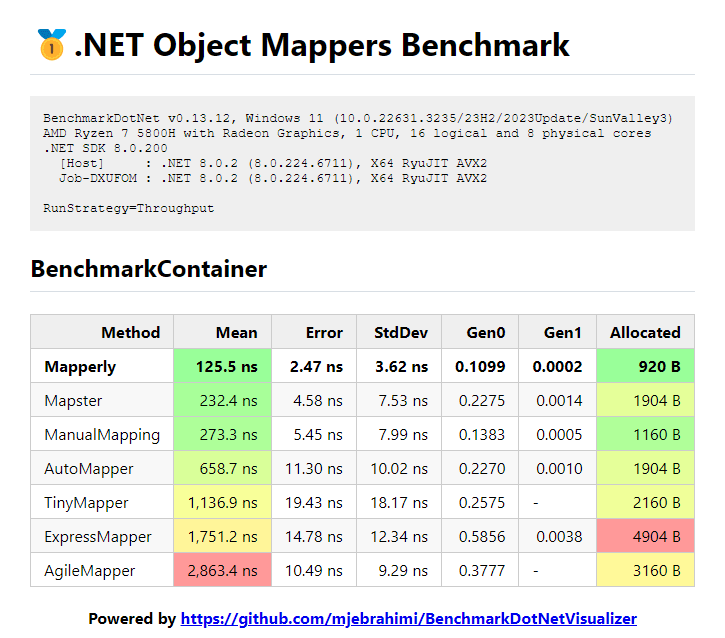
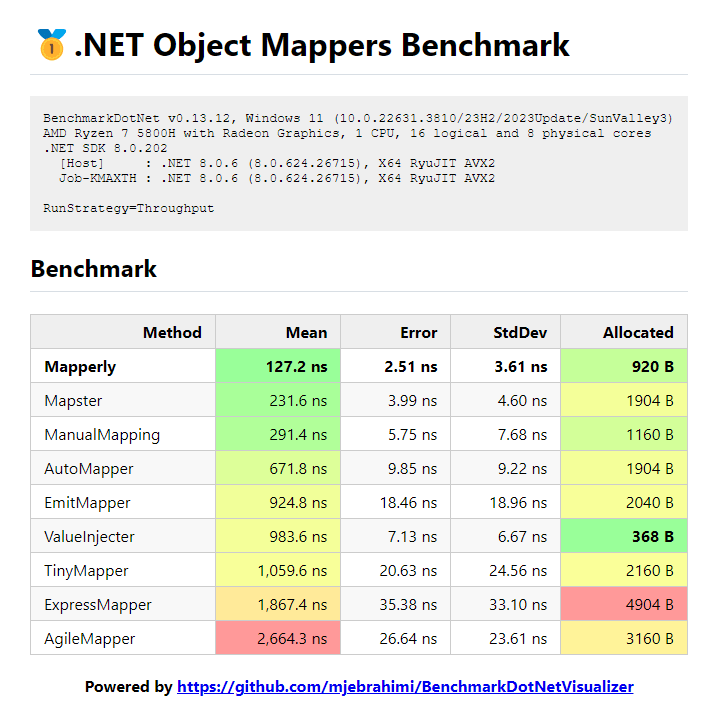
Update benchmark - Update dependencies, Add EmitMapper.Core and ValueInjecter

Changed region(s): [[0.0306, 0.1489, 0.9805, 1.0], [0.0306, 0.0298, 0.9499, 0.1191], [0.5515, 0.4467, 0.6128, 0.4765]]

diff --git a/ObjectsMapperBenchmark/ManuallyMapper.cs b/ObjectsMapperBenchmark/ManuallyMapper.cs
@@ -1,95 +1,95 @@
 using System.Linq;
 
-namespace ObjectsMapperBenchmark
+namespace ObjectsMapperBenchmark;
+
+public static class ManuallyMapper
 {
-    public static class ManuallyMapper
+    public static SpotifyAlbum Map(this SpotifyAlbumDto spotifyAlbumDto)
     {
-        public static SpotifyAlbum Map(this SpotifyAlbumDto spotifyAlbumDto)
+        //Generated by MappingGenerator
+        return new SpotifyAlbum()
         {
-            return new SpotifyAlbum()
+            AlbumType = spotifyAlbumDto.AlbumType,
+            Artists = spotifyAlbumDto.Artists.Select(spotifyAlbumDtoArtist => new Artist()
             {
-                AlbumType = spotifyAlbumDto.AlbumType,
-                Artists = spotifyAlbumDto.Artists.Select(spotifyAlbumDtoArtist => new Artist()
-                {
-                    ExternalUrls = new ExternalUrls()
-                    {
-                        Spotify = spotifyAlbumDtoArtist.ExternalUrls.Spotify
-                    },
-                    Href = spotifyAlbumDtoArtist.Href,
-                    Id = spotifyAlbumDtoArtist.Id,
-                    Name = spotifyAlbumDtoArtist.Name,
-                    Type = spotifyAlbumDtoArtist.Type,
-                    Uri = spotifyAlbumDtoArtist.Uri
-                }).ToArray(),
-                AvailableMarkets = spotifyAlbumDto.AvailableMarkets,
-                Copyrights = spotifyAlbumDto.Copyrights.Select(spotifyAlbumDtoCopyright => new Copyright()
-                {
-                    Text = spotifyAlbumDtoCopyright.Text,
-                    Type = spotifyAlbumDtoCopyright.Type
-                }).ToArray(),
-                ExternalIds = new ExternalIds()
-                {
-                    Upc = spotifyAlbumDto.ExternalIds.Upc
-                },
                 ExternalUrls = new ExternalUrls()
                 {
-                    Spotify = spotifyAlbumDto.ExternalUrls.Spotify
+                    Spotify = spotifyAlbumDtoArtist.ExternalUrls.Spotify
                 },
-                Genres = spotifyAlbumDto.Genres,
-                Href = spotifyAlbumDto.Href,
-                Id = spotifyAlbumDto.Id,
-                Images = spotifyAlbumDto.Images.Select(spotifyAlbumDtoImage => new Image()
+                Href = spotifyAlbumDtoArtist.Href,
+                Id = spotifyAlbumDtoArtist.Id,
+                Name = spotifyAlbumDtoArtist.Name,
+                Type = spotifyAlbumDtoArtist.Type,
+                Uri = spotifyAlbumDtoArtist.Uri
+            }).ToArray(),
+            AvailableMarkets = spotifyAlbumDto.AvailableMarkets,
+            Copyrights = spotifyAlbumDto.Copyrights.Select(spotifyAlbumDtoCopyright => new Copyright()
+            {
+                Text = spotifyAlbumDtoCopyright.Text,
+                Type = spotifyAlbumDtoCopyright.Type
+            }).ToArray(),
+            ExternalIds = new ExternalIds()
+            {
+                Upc = spotifyAlbumDto.ExternalIds.Upc
+            },
+            ExternalUrls = new ExternalUrls()
+            {
+                Spotify = spotifyAlbumDto.ExternalUrls.Spotify
+            },
+            Genres = spotifyAlbumDto.Genres,
+            Href = spotifyAlbumDto.Href,
+            Id = spotifyAlbumDto.Id,
+            Images = spotifyAlbumDto.Images.Select(spotifyAlbumDtoImage => new Image()
+            {
+                Height = spotifyAlbumDtoImage.Height,
+                Url = spotifyAlbumDtoImage.Url,
+                Width = spotifyAlbumDtoImage.Width
+            }).ToArray(),
+            Name = spotifyAlbumDto.Name,
+            Popularity = spotifyAlbumDto.Popularity,
+            ReleaseDate = spotifyAlbumDto.ReleaseDate,
+            ReleaseDatePrecision = spotifyAlbumDto.ReleaseDatePrecision,
+            Tracks = new Tracks()
+            {
+                Href = spotifyAlbumDto.Tracks.Href,
+                Items = spotifyAlbumDto.Tracks.Items.Select(spotifyAlbumDtoTracksItem => new Item()
                 {
-                    Height = spotifyAlbumDtoImage.Height,
-                    Url = spotifyAlbumDtoImage.Url,
-                    Width = spotifyAlbumDtoImage.Width
-                }).ToArray(),
-                Name = spotifyAlbumDto.Name,
-                Popularity = spotifyAlbumDto.Popularity,
-                ReleaseDate = spotifyAlbumDto.ReleaseDate,
-                ReleaseDatePrecision = spotifyAlbumDto.ReleaseDatePrecision,
-                Tracks = new Tracks()
-                {
-                    Href = spotifyAlbumDto.Tracks.Href,
-                    Items = spotifyAlbumDto.Tracks.Items.Select(spotifyAlbumDtoTracksItem => new Item()
+                    Artists = spotifyAlbumDtoTracksItem.Artists.Select(spotifyAlbumDtoTracksItemArtist => new Artist()
                     {
-                        Artists = spotifyAlbumDtoTracksItem.Artists.Select(spotifyAlbumDtoTracksItemArtist => new Artist()
-                        {
-                            ExternalUrls = new ExternalUrls()
-                            {
-                                Spotify = spotifyAlbumDtoTracksItemArtist.ExternalUrls.Spotify
-                            },
-                            Href = spotifyAlbumDtoTracksItemArtist.Href,
-                            Id = spotifyAlbumDtoTracksItemArtist.Id,
-                            Name = spotifyAlbumDtoTracksItemArtist.Name,
-                            Type = spotifyAlbumDtoTracksItemArtist.Type,
-                            Uri = spotifyAlbumDtoTracksItemArtist.Uri
-                        }).ToArray(),
-                        AvailableMarkets = spotifyAlbumDtoTracksItem.AvailableMarkets,
-                        DiscNumber = spotifyAlbumDtoTracksItem.DiscNumber,
-                        DurationMs = spotifyAlbumDtoTracksItem.DurationMs,
-                        Explicit = spotifyAlbumDtoTracksItem.Explicit,
                         ExternalUrls = new ExternalUrls()
                         {
-                            Spotify = spotifyAlbumDtoTracksItem.ExternalUrls.Spotify
+                            Spotify = spotifyAlbumDtoTracksItemArtist.ExternalUrls.Spotify
                         },
-                        Href = spotifyAlbumDtoTracksItem.Href,
-                        Id = spotifyAlbumDtoTracksItem.Id,
-                        Name = spotifyAlbumDtoTracksItem.Name,
-                        PreviewUrl = spotifyAlbumDtoTracksItem.PreviewUrl,
-                        TrackNumber = spotifyAlbumDtoTracksItem.TrackNumber,
-                        Type = spotifyAlbumDtoTracksItem.Type,
-                        Uri = spotifyAlbumDtoTracksItem.Uri
+                        Href = spotifyAlbumDtoTracksItemArtist.Href,
+                        Id = spotifyAlbumDtoTracksItemArtist.Id,
+                        Name = spotifyAlbumDtoTracksItemArtist.Name,
+                        Type = spotifyAlbumDtoTracksItemArtist.Type,
+                        Uri = spotifyAlbumDtoTracksItemArtist.Uri
                     }).ToArray(),
-                    Limit = spotifyAlbumDto.Tracks.Limit,
-                    Next = spotifyAlbumDto.Tracks.Next,
-                    Offset = spotifyAlbumDto.Tracks.Offset,
-                    Previous = spotifyAlbumDto.Tracks.Previous,
-                    Total = spotifyAlbumDto.Tracks.Total
-                },
-                Type = spotifyAlbumDto.Type,
-                Uri = spotifyAlbumDto.Uri
-            };
-        }
+                    AvailableMarkets = spotifyAlbumDtoTracksItem.AvailableMarkets,
+                    DiscNumber = spotifyAlbumDtoTracksItem.DiscNumber,
+                    DurationMs = spotifyAlbumDtoTracksItem.DurationMs,
+                    Explicit = spotifyAlbumDtoTracksItem.Explicit,
+                    ExternalUrls = new ExternalUrls()
+                    {
+                        Spotify = spotifyAlbumDtoTracksItem.ExternalUrls.Spotify
+                    },
+                    Href = spotifyAlbumDtoTracksItem.Href,
+                    Id = spotifyAlbumDtoTracksItem.Id,
+                    Name = spotifyAlbumDtoTracksItem.Name,
+                    PreviewUrl = spotifyAlbumDtoTracksItem.PreviewUrl,
+                    TrackNumber = spotifyAlbumDtoTracksItem.TrackNumber,
+                    Type = spotifyAlbumDtoTracksItem.Type,
+                    Uri = spotifyAlbumDtoTracksItem.Uri
+                }).ToArray(),
+                Limit = spotifyAlbumDto.Tracks.Limit,
+                Next = spotifyAlbumDto.Tracks.Next,
+                Offset = spotifyAlbumDto.Tracks.Offset,
+                Previous = spotifyAlbumDto.Tracks.Previous,
+                Total = spotifyAlbumDto.Tracks.Total
+            },
+            Type = spotifyAlbumDto.Type,
+            Uri = spotifyAlbumDto.Uri
+        };
     }
 }

diff --git a/ObjectsMapperBenchmark/Benchmark.cs b/ObjectsMapperBenchmark/Benchmark.cs
@@ -1,6 +1,7 @@
 using AutoMapper;
 using BenchmarkDotNet.Attributes;
 using BenchmarkDotNet.Order;
+using EmitMapper;
 using Mapster;
 using System.IO;
 
@@ -9,14 +10,13 @@ namespace ObjectsMapperBenchmark;
 #if RELEASE
 [SimpleJob(BenchmarkDotNet.Engines.RunStrategy.Throughput)]
 #endif
-[MemoryDiagnoser]
-[KeepBenchmarkFiles(false)]
+[MemoryDiagnoser(displayGenColumns: false)]
 [Orderer(SummaryOrderPolicy.FastestToSlowest, MethodOrderPolicy.Declared)]
-public class BenchmarkContainer
+public class Benchmark
 {
     private SpotifyAlbumDto _spotifyAlbumDto;
     private IMapper _autoMapper;
-    private MapperlyMapper _mapperlyMapper;
+    private ObjectsMapper<SpotifyAlbumDto, SpotifyAlbum> _emitMapper;
 
     [GlobalSetup]
     public void Setup()
@@ -24,7 +24,7 @@ public class BenchmarkContainer
         var json = File.ReadAllText("spotifyAlbum.json");
         _spotifyAlbumDto = SpotifyAlbumDto.FromJson(json);
 
-        //Automapper Configuration
+        #region AutoMapper Configuration
         var mapperConfig = new MapperConfiguration(cfg =>
         {
             cfg.CreateMap<SpotifyAlbumDto, SpotifyAlbum>();
@@ -45,8 +45,9 @@ public class BenchmarkContainer
             cfg.CreateMap<Item, ItemDto>();
         });
         _autoMapper = mapperConfig.CreateMapper();
+        #endregion
 
-        //TinyMapper Configuration
+        #region TinyMapper Configuration
         Nelibur.ObjectMapper.TinyMapper.Bind<SpotifyAlbumDto, SpotifyAlbum>();
         Nelibur.ObjectMapper.TinyMapper.Bind<CopyrightDto, Copyright>();
         Nelibur.ObjectMapper.TinyMapper.Bind<ArtistDto, Artist>();
@@ -63,8 +64,9 @@ public class BenchmarkContainer
         Nelibur.ObjectMapper.TinyMapper.Bind<Tracks, TracksDto>();
         Nelibur.ObjectMapper.TinyMapper.Bind<Image, ImageDto>();
         Nelibur.ObjectMapper.TinyMapper.Bind<Item, ItemDto>();
+        #endregion
 
-        //ExpressMapper Configuration
+        #region ExpressMapper Configuration
         global::ExpressMapper.Mapper.Register<SpotifyAlbumDto, SpotifyAlbum>();
         global::ExpressMapper.Mapper.Register<CopyrightDto, Copyright>();
         global::ExpressMapper.Mapper.Register<ArtistDto, Artist>();
@@ -81,54 +83,69 @@ public class BenchmarkContainer
         global::ExpressMapper.Mapper.Register<Tracks, TracksDto>();
         global::ExpressMapper.Mapper.Register<Image, ImageDto>();
         global::ExpressMapper.Mapper.Register<Item, ItemDto>();
+        #endregion
 
-        // Mapperly
-        _mapperlyMapper = new MapperlyMapper();
+        #region EmitMapper
+        _emitMapper = ObjectMapperManager.DefaultInstance.GetMapper<SpotifyAlbumDto, SpotifyAlbum>();
+        #endregion
 
-        //Mapster don't need configuration
-        //AgileMapper don't need configuration
+        //Mapperly does not need configuration
+        //Mapster does not need configuration
+        //AgileMapper does not need configuration
+        //ValueInjecter does not need configuration
     }
 
     [Benchmark]
-    public void AgileMapper()
+    public SpotifyAlbum AutoMapper()
     {
-        AgileObjects.AgileMapper.Mapper.Map(_spotifyAlbumDto).ToANew<SpotifyAlbum>();
+        return _autoMapper.Map<SpotifyAlbum>(_spotifyAlbumDto);
     }
 
     [Benchmark]
-    public void TinyMapper()
+    public SpotifyAlbum Mapster()
     {
-        Nelibur.ObjectMapper.TinyMapper.Map<SpotifyAlbum>(_spotifyAlbumDto);
+        return _spotifyAlbumDto.Adapt<SpotifyAlbum>();
     }
 
     [Benchmark]
-    public void ExpressMapper()
+    public SpotifyAlbum TinyMapper()
     {
-        global::ExpressMapper.Mapper.Map<SpotifyAlbumDto, SpotifyAlbum>(_spotifyAlbumDto);
+        return Nelibur.ObjectMapper.TinyMapper.Map<SpotifyAlbum>(_spotifyAlbumDto);
     }
 
     [Benchmark]
-    public void AutoMapper()
+    public SpotifyAlbum AgileMapper()
     {
-        _autoMapper.Map<SpotifyAlbum>(_spotifyAlbumDto);
+        return AgileObjects.AgileMapper.Mapper.Map(_spotifyAlbumDto).ToANew<SpotifyAlbum>();
     }
 
     [Benchmark]
-    public void ManualMapping()
+    public SpotifyAlbum ExpressMapper()
     {
-        //Generated by MappingGenerator
-        _spotifyAlbumDto.Map();
+        return global::ExpressMapper.Mapper.Map<SpotifyAlbumDto, SpotifyAlbum>(_spotifyAlbumDto);
     }
 
     [Benchmark]
-    public void Mapster()
+    public SpotifyAlbum EmitMapper()
     {
-        _spotifyAlbumDto.Adapt<SpotifyAlbum>();
+        return _emitMapper.Map(_spotifyAlbumDto);
+    }
+
+    [Benchmark]
+    public SpotifyAlbum ValueInjecter()
+    {
+        return Omu.ValueInjecter.Mapper.Map<SpotifyAlbumDto, SpotifyAlbum>(_spotifyAlbumDto);
+    }
+
+    [Benchmark]
+    public SpotifyAlbum ManualMapping()
+    {
+        return _spotifyAlbumDto.Map();
     }
 
     [Benchmark]
     public void Mapperly()
     {
-        _mapperlyMapper.Map(_spotifyAlbumDto);
+        MapperlyMapper.Map(_spotifyAlbumDto);
     }
 }

diff --git a/ObjectsMapperBenchmark/Program.cs b/ObjectsMapperBenchmark/Program.cs
@@ -2,15 +2,10 @@
 using BenchmarkDotNet.Running;
 using BenchmarkDotNetVisualizer;
 using ObjectsMapperBenchmark;
-using System;
-using System.Diagnostics;
-using System.Threading;
-
-ValidateRuntime();
 
 var config = BenchmarkAutoRunner.IsRunningInDebugMode() ? new DebugInProcessConfigDry() : DefaultConfig.Instance;
 config = config.WithOptions(ConfigOptions.DisableOptimizationsValidator); //because AgileObjects.AgileMapper is built non-optimized
-var summary = BenchmarkRunner.Run<BenchmarkContainer>(config, args);
+var summary = BenchmarkRunner.Run<Benchmark>(config, args);
 
 var path = DirectoryHelper.GetPathRelativeToProjectDirectory("Benchmark.png");
 await summary.SaveAsImageAsync(path, new ReportImageOptions
@@ -22,28 +17,3 @@ await summary.SaveAsImageAsync(path, new ReportImageOptions
     HighlightGroups = false,
     DividerMode = RenderTableDividerMode.EmptyDividerRow,
 });
-
-static void ValidateRuntime()
-{
-    if (BenchmarkAutoRunner.IsRunningInDebugMode())
-    {
-        Console.ForegroundColor = ConsoleColor.Red;
-        Console.WriteLine("You are in DEBUG mode. To achieve accurate results, set project configuration to RELEASE mode.");
-
-        Console.ForegroundColor = ConsoleColor.Yellow;
-        Console.WriteLine("Please wait 3 seconds to enter DEBUG mode");
-
-        Thread.Sleep(3000);
-    }
-    else if (Debugger.IsAttached)
-    {
-        Console.ForegroundColor = ConsoleColor.Red;
-        Console.WriteLine("Debugger is Attached. To achieve accurate results, run project without Debugger.");
-
-        Console.ForegroundColor = ConsoleColor.Yellow;
-        Console.WriteLine("Or if you want to Debug project, set project configuration to DEBUG mode.");
-
-        Console.ForegroundColor = ConsoleColor.White;
-        Environment.Exit(0);
-    }
-}

diff --git a/ObjectsMapperBenchmark/MapperlyMapper.cs b/ObjectsMapperBenchmark/MapperlyMapper.cs
@@ -1,10 +1,9 @@
 using Riok.Mapperly.Abstractions;
 
-namespace ObjectsMapperBenchmark
+namespace ObjectsMapperBenchmark;
+
+[Mapper]
+public static partial class MapperlyMapper
 {
-    [Mapper]
-    public partial class MapperlyMapper
-    {
-        public partial SpotifyAlbum Map(SpotifyAlbumDto spotifyAlbumDto);
-    }
+    public static partial SpotifyAlbum Map(SpotifyAlbumDto spotifyAlbumDto);
 }
